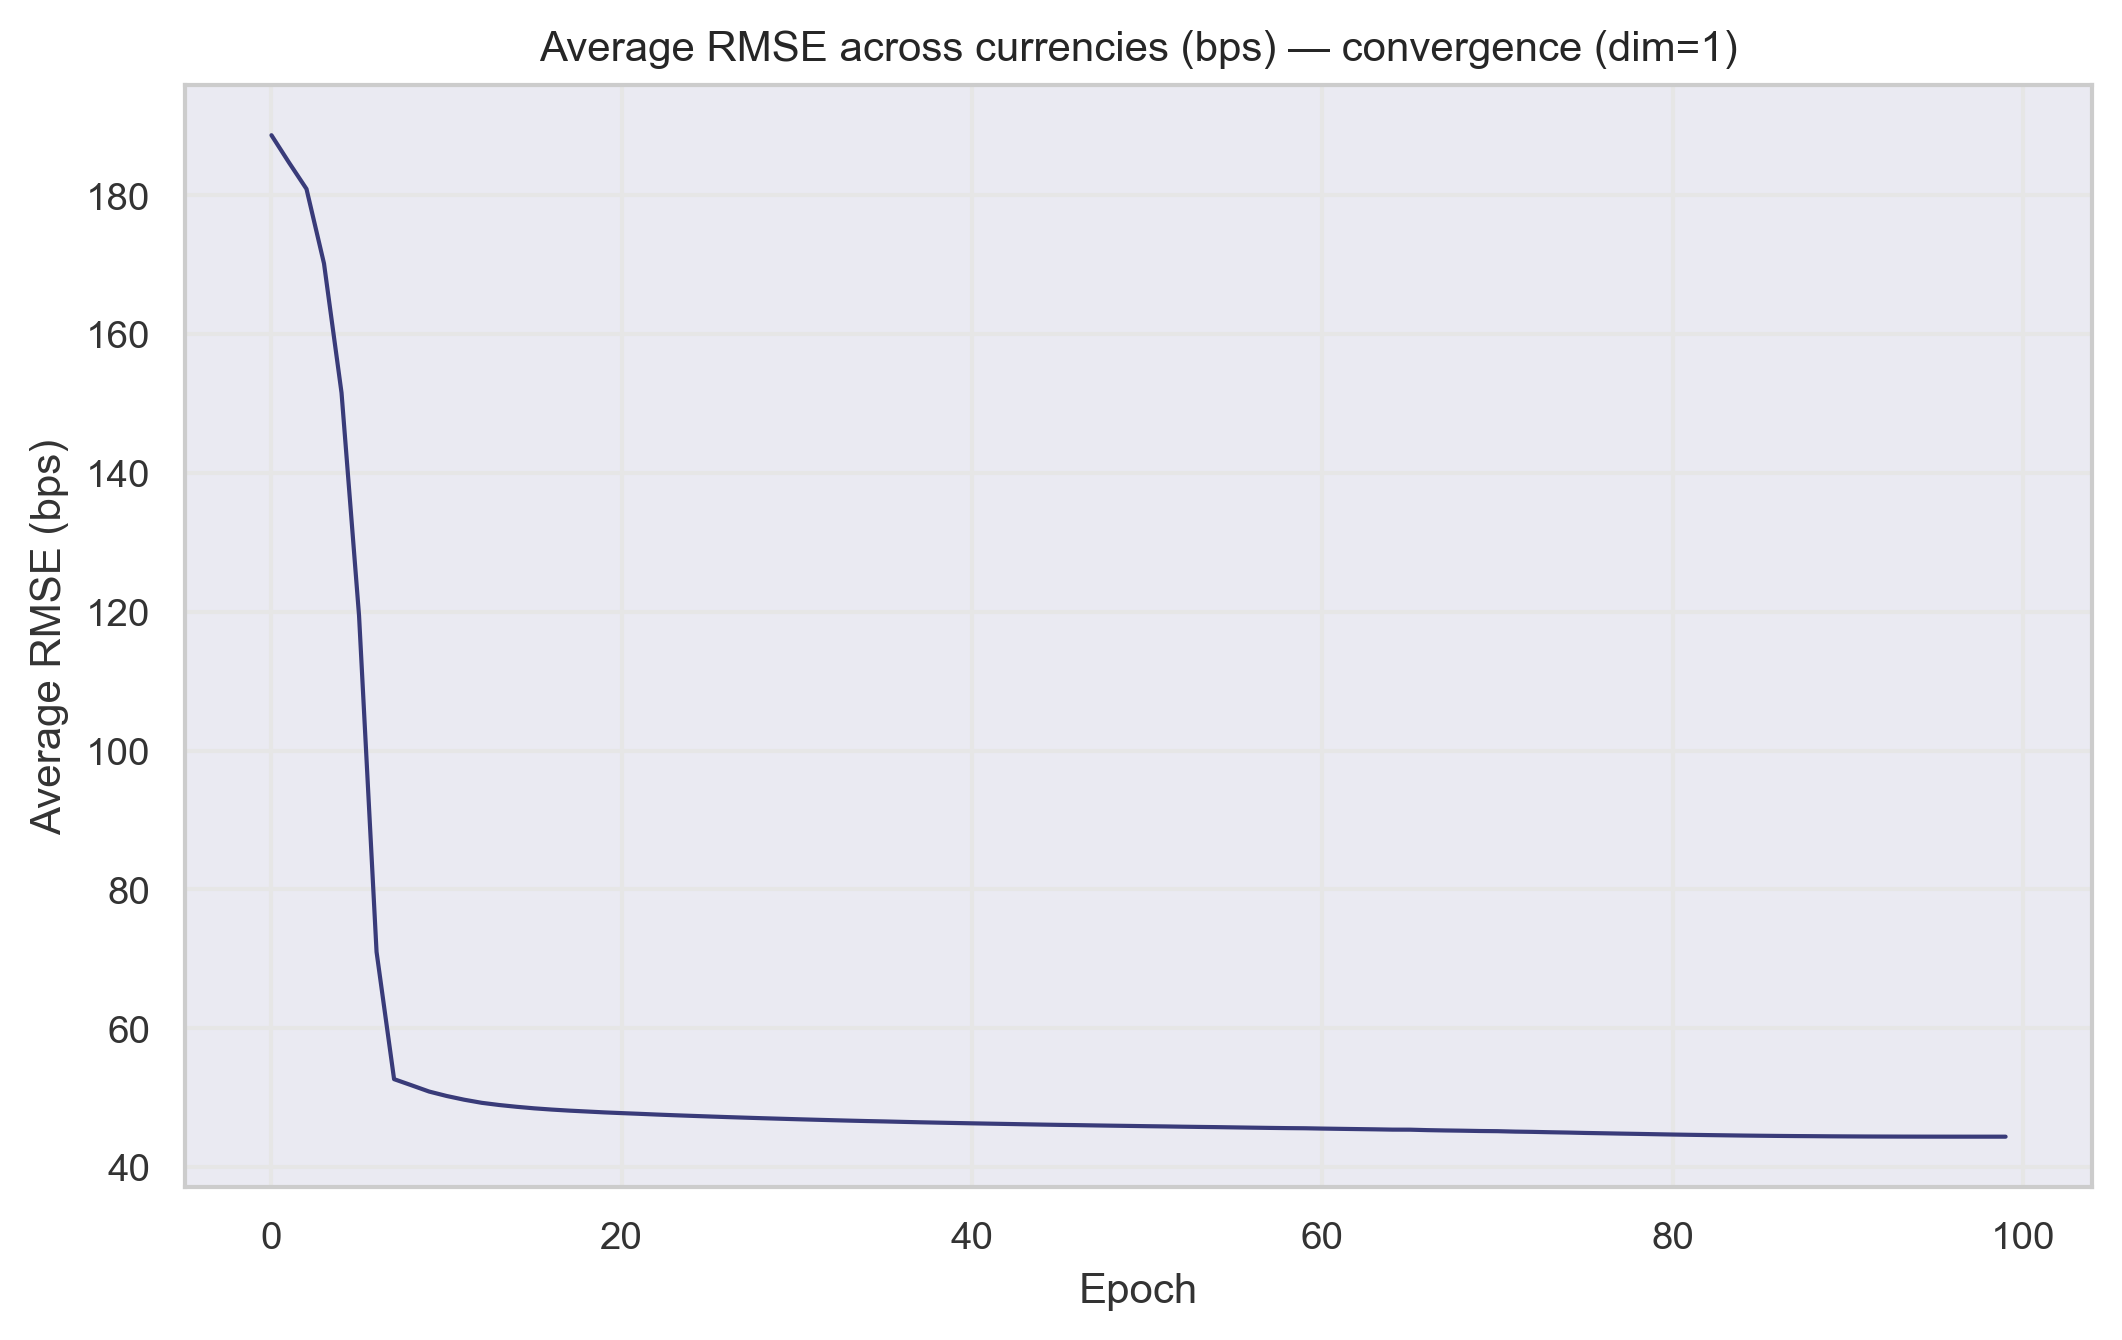
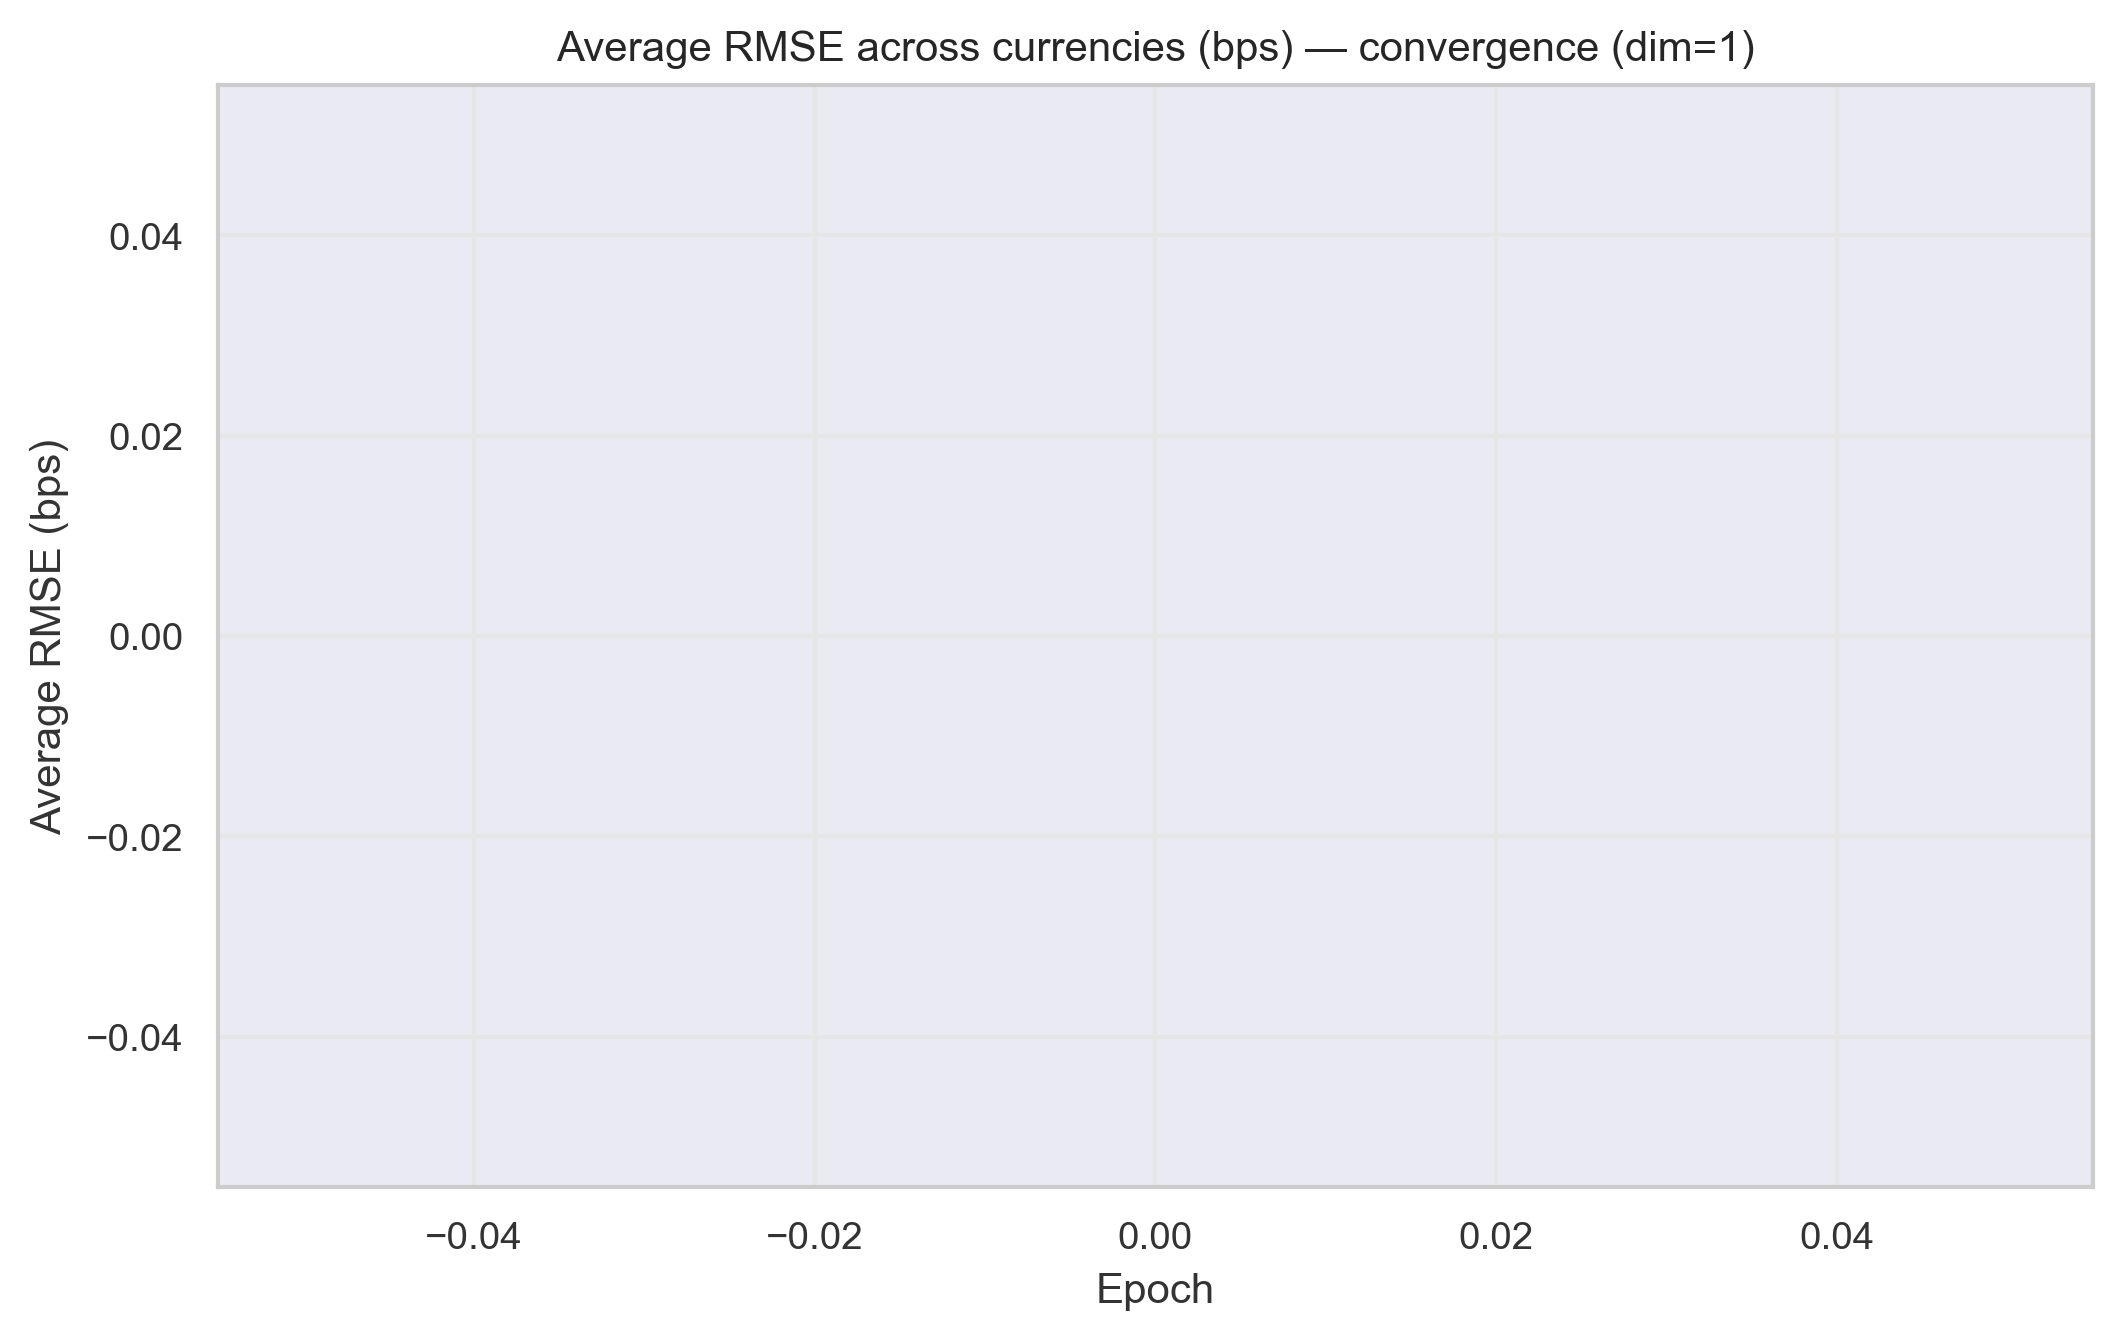
Added chekcpoint and pricing script

diff --git a/Code/model/K_mu.py b/Code/model/K_mu.py
@@ -9,6 +9,77 @@ import torch.nn as nn
 
 class KMu(nn.Module):
     """
+    Stable linear drift:
+        mu(z) = -A (z - z_star)
+
+    where
+        A = B B^T + eps I
+
+    so A is positive definite and the drift is mean-reverting by construction.
+
+    Parameters
+    ----------
+    latent_dim : int
+        Dimension of latent state z.
+    eps : float
+        Small positive constant to ensure strict stability.
+    learn_z_star : bool
+        If True, learn the long-run mean z_star.
+        If False, z_star is fixed at zero unless set externally.
+    init_z_star : torch.Tensor or None
+        Optional initial value for z_star, shape (latent_dim,).
+    """
+
+    def __init__(
+        self,
+        latent_dim: int,
+        eps: float = 1e-3,
+        learn_z_star: bool = True,
+        init_z_star: torch.Tensor | None = None,
+    ):
+        super().__init__()
+        self.latent_dim = latent_dim
+        self.eps = eps
+
+        # Free parameter used to build stable matrix A = B B^T + eps I
+        self.B = nn.Parameter(torch.zeros(latent_dim, latent_dim))
+
+        if init_z_star is None:
+            init_z_star = torch.zeros(latent_dim, dtype=torch.float32)
+        else:
+            init_z_star = init_z_star.detach().clone().float()
+            if init_z_star.numel() != latent_dim:
+                raise ValueError(
+                    f"init_z_star must have {latent_dim} entries, got {init_z_star.numel()}"
+                )
+
+        if learn_z_star:
+            self.z_star = nn.Parameter(init_z_star)
+        else:
+            self.register_buffer("z_star", init_z_star)
+
+    def stable_matrix(self, device=None, dtype=None):
+        if device is None:
+            device = self.B.device
+        if dtype is None:
+            dtype = self.B.dtype
+
+        I = torch.eye(self.latent_dim, device=device, dtype=dtype)
+        A = self.B @ self.B.T + self.eps * I
+        return A
+
+    def forward(self, z):
+        if z.dim() == 1:
+            z = z.unsqueeze(0)
+
+        A = self.stable_matrix(device=z.device, dtype=z.dtype)
+
+        # mu(z) = -A (z - z_star)
+        mu = -(z - self.z_star) @ A.T
+        return mu
+
+class old_KMu(nn.Module):
+    """
     Drift network K from the paper.
     Implements: mu(z) = M z + N
     (pure linear mapping, no activation)

diff --git a/Code/Training.py b/Code/Training.py
@@ -38,8 +38,8 @@ print("CPU threads:", torch.get_num_threads(), "interop:", torch.get_num_interop
 # ==========================================================
 # Settings
 # ==========================================================
-LATENT_DIM = 4
-EPOCHS = 5000
+LATENT_DIM = 1
+EPOCHS = 100
 
 # IMPORTANT CHANGE:
 # - We evaluate avg RMSE (bps) every epoch (for plotting)

diff --git a/Code/model/full_model.py b/Code/model/full_model.py
@@ -48,7 +48,8 @@ class FullModel(nn.Module):
         # Networks
         self.encoder = Encoder(input_dim, latent_dim)
         self.G = DecoderG(latent_dim, g_hidden, g_bias)
-        self.K = KMu(latent_dim, bias=True)
+        #self.K = KMu(latent_dim, bias=True)
+        self.K = KMu(latent_dim=latent_dim, eps=1e-3, learn_z_star=True)
         self.H = HSigma(latent_dim, h_hidden, hr_bias)
         self.R = RShort(latent_dim, r_hidden, hr_bias)
 